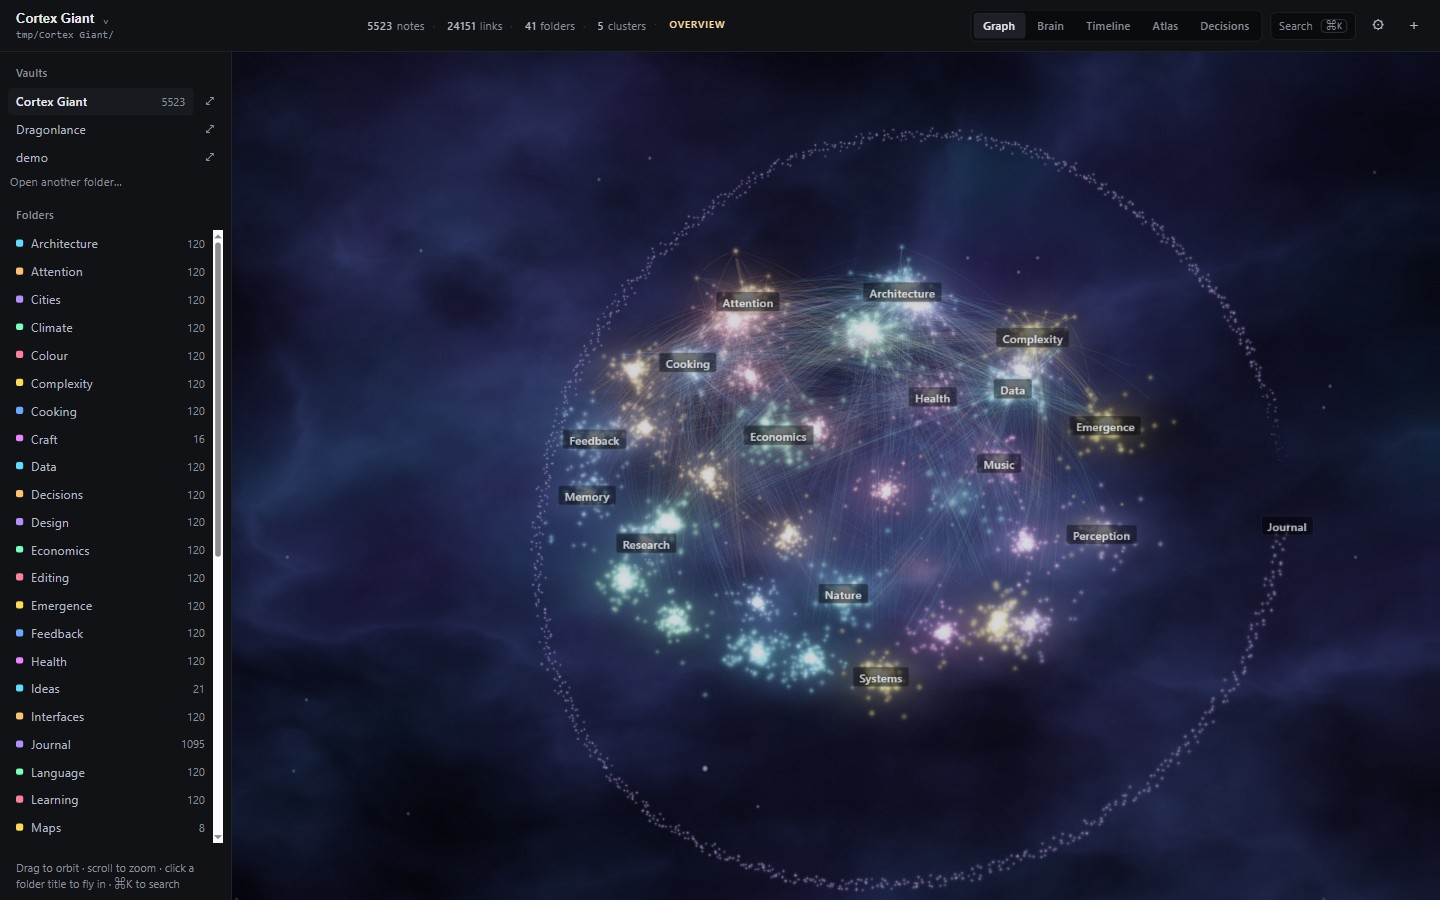
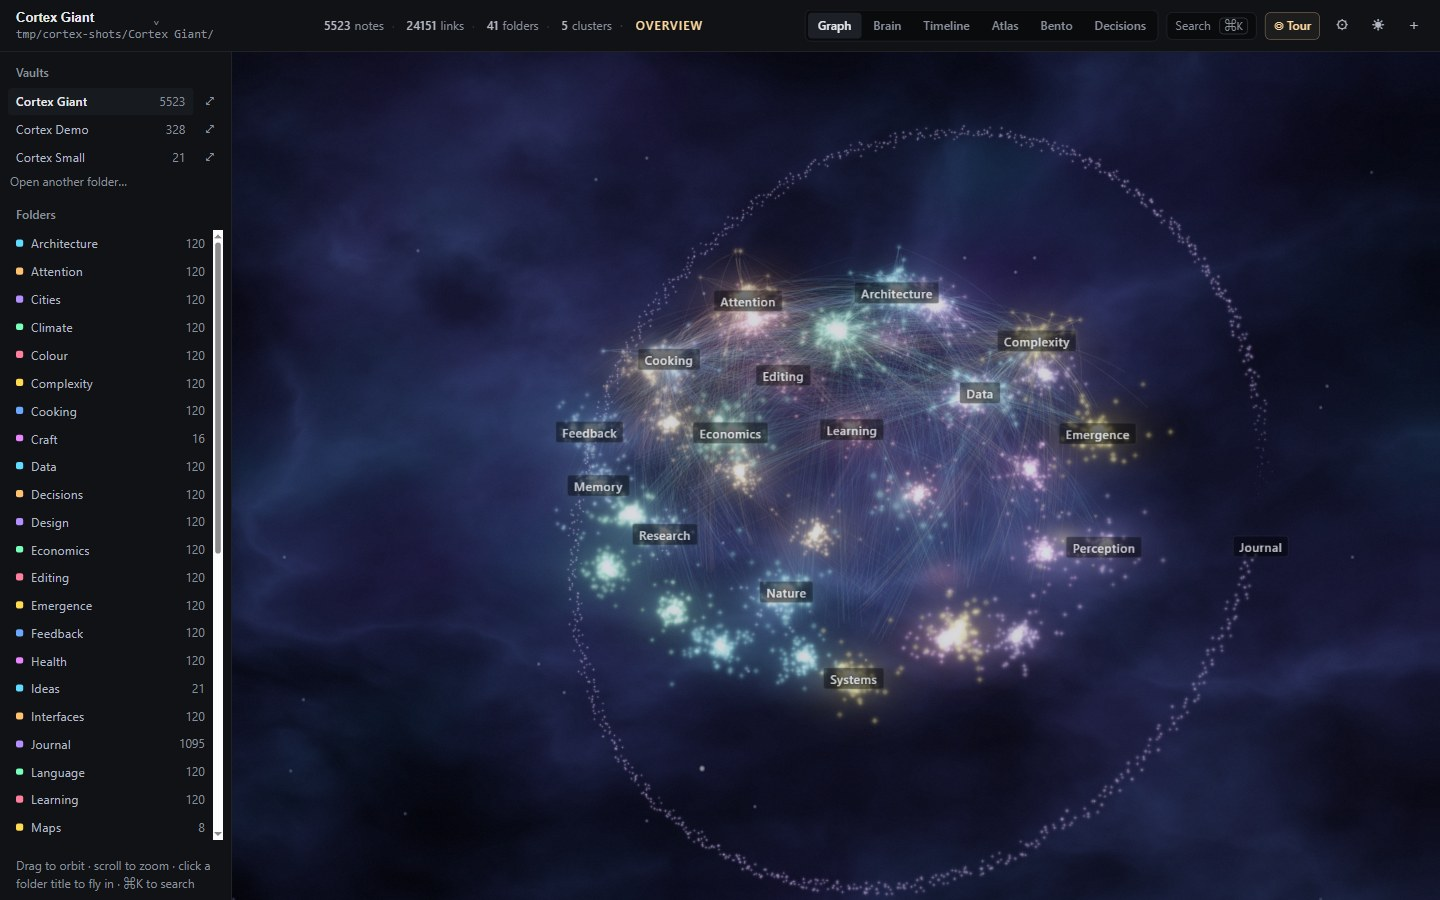
Release Cortex 1.1.1 with tour replay and galaxy screenshots
Remember a completed guided tour and offer a one-click replay from the toolbar.
Refresh the README graph images to the current folder-galaxy layout and bump the
version across the binary and installer.

Generated with Codebuff 🤖

diff --git a/web/js/main.js b/web/js/main.js
@@ -160,6 +160,16 @@ const prefs = {
   },
 };
 
+const TOUR_COMPLETE_KEY = 'cortex.tour.completed';
+
+function syncTourButton() {
+  const complete = prefs.get(TOUR_COMPLETE_KEY, false);
+  const label = complete ? 'Replay the guided tour' : 'Take the guided tour';
+  els.tourButton.textContent = complete ? '↻ Replay' : '◎ Tour';
+  els.tourButton.title = label;
+  els.tourButton.setAttribute('aria-label', label);
+}
+
 function viewForVault(id) {
   return prefs.get(`cortex.view.${id}`, prefs.get('cortex.launchView', 'universe'));
 }
@@ -230,6 +240,7 @@ async function start() {
 }
 
 function wire() {
+  syncTourButton();
   const storedView = prefs.get('cortex.launchView', 'universe');
   const storedRadio = document.querySelector(`input[name="launch-view"][value="${storedView}"]`);
   if (storedRadio) storedRadio.checked = true;
@@ -1684,11 +1695,15 @@ async function startTour() {
   }
 }
 
-async function finishTour({ stay = false } = {}) {
+async function finishTour({ stay = false, completed = false } = {}) {
   const session = tourSession;
   tourSession = null;
   closeCompose();
   closePalette();
+  if (completed) {
+    prefs.set(TOUR_COMPLETE_KEY, true);
+    syncTourButton();
+  }
   if (!session) return;
 
   if (stay) {
@@ -1727,7 +1742,7 @@ async function finishTour({ stay = false } = {}) {
   } else {
     closePanel();
   }
-  ui.toast('Tour complete — your notes are untouched');
+  ui.toast('Tour complete — replay it from the toolbar. Your notes are untouched.');
 }
 
 /* ---------- pointer ---------- */

diff --git a/README.md b/README.md
@@ -1,15 +1,15 @@
 <p align="center">
-  <a href="https://github.com/thijnperd/obsidian-cortex/releases/tag/v1.1.0">
-    <img src="docs/screenshots/v1-decision-trail.jpg" width="100%" alt="Cortex 1.1 showing a decision trail beside the Decisions board">
+  <a href="https://github.com/thijnperd/obsidian-cortex/releases/tag/v1.1.1">
+    <img src="docs/screenshots/v1-decision-trail.jpg" width="100%" alt="Cortex 1.1.1 showing a decision trail beside the Decisions board">
   </a>
 </p>
 
-<h1 align="center">Cortex 1.1 — The Guided Tour</h1>
+<h1 align="center">Cortex 1.1.1 — The Guided Tour</h1>
 
 <p align="center"><strong>Your notes have a shape. Cortex shows you the reason.</strong></p>
 
 <p align="center">
-  <a href="https://github.com/thijnperd/obsidian-cortex/releases/tag/v1.1.0"><img alt="Cortex 1.1" src="https://img.shields.io/badge/version-1.1.0-ffd9a0?style=flat-square&amp;labelColor=0a0b0d"></a>
+  <a href="https://github.com/thijnperd/obsidian-cortex/releases/tag/v1.1.1"><img alt="Cortex 1.1.1" src="https://img.shields.io/badge/version-1.1.1-ffd9a0?style=flat-square&amp;labelColor=0a0b0d"></a>
   <img alt="Local-first" src="https://img.shields.io/badge/local--first-your%20folder-101216?style=flat-square&amp;labelColor=0a0b0d">
   <img alt="MIT licensed" src="https://img.shields.io/badge/license-MIT-ffd9a0?style=flat-square&amp;labelColor=0a0b0d">
   <img alt="Windows, macOS and Linux" src="https://img.shields.io/badge/platform-Windows%20%7C%20macOS%20%7C%20Linux-101216?style=flat-square&amp;labelColor=0a0b0d">
@@ -42,7 +42,8 @@ Press **Tour** in the toolbar. Cortex checks whether your vault has the pieces
 the tour teaches — a research brief, an idea note and a decision trail. If it
 does, the tour runs in place. If not, Cortex opens a generated **Cortex Tour**
 demo and returns you to your own vault when you finish. Your notes are never
-written to or changed.
+written to or changed. Finishing changes the toolbar button to **↻ Replay**,
+remembered in this browser, so the full walkthrough is always one click away.
 
 The fifteen steps cover all six views, collecting evidence, Research brief,
 Refine idea, Decisions and the trail, plus the daily note and the shortcuts that
@@ -94,12 +95,17 @@ individual stars, draws only the strongest 5,000 links, and the atlas turns
 dense folders into light stipple. Hover or select a note for its own label.
 Click a folder title to fly into that galaxy; `All folders` flies back out.
 
+The graph is a sphere of **folder galaxies**: every folder is a local cluster of
+note dots, the strongest links stay nearby, and a large daily journal becomes a
+chronological ring around the vault instead of a blob that swallows the map.
+That is the layout in every screenshot below.
+
 ### Small — 21 notes, 35 links
 
 | | |
 | --- | --- |
 | ![Small vault: graph view](docs/screenshots/small/01-graph.jpg) | ![Small vault: brain view](docs/screenshots/small/02-brain.jpg) |
-| **Graph** — notes are stars, links are light, and the sky is a nebula. | **Brain** — the same graph inside a real cortical surface. |
+| **Graph** — folder galaxies: notes are dots, links are light, and the sky is a nebula. | **Brain** — the same graph inside a real cortical surface. |
 | ![Small vault: timeline view](docs/screenshots/small/03-timeline.jpg) | ![Small vault: atlas view](docs/screenshots/small/04-atlas.jpg) |
 | **Timeline** — the vault replayed as it was written. | **Atlas** — seven folders as countries, notes as places, links as roads. |
 | ![Small vault: bento view](docs/screenshots/small/06-bento.jpg) | ![Small vault: decisions view](docs/screenshots/small/05-decisions.jpg) |
@@ -110,7 +116,7 @@ Click a folder title to fly into that galaxy; `All folders` flies back out.
 | | |
 | --- | --- |
 | ![Medium vault: graph view](docs/screenshots/medium/01-graph.jpg) | ![Medium vault: brain view](docs/screenshots/medium/02-brain.jpg) |
-| **Graph** — the full universe; drag to orbit, scroll to zoom, `f` to reframe. | **Brain** — the same graph inside a real cortical surface, links as fibre tracts. |
+| **Graph** — folder galaxies around the journal’s orbit; drag to orbit, scroll to zoom, `f` to reframe. | **Brain** — the same graph inside a real cortical surface, links as fibre tracts. |
 | ![Medium vault: timeline view](docs/screenshots/medium/03-timeline.jpg) | ![Medium vault: atlas view](docs/screenshots/medium/04-atlas.jpg) |
 | **Timeline** — the vault replayed in the order it was written, with a scrubber. | **Atlas** — countries, towns, roads, and rivers that follow the land. |
 | ![Medium vault: bento view](docs/screenshots/medium/06-bento.jpg) | ![Medium vault: decisions view](docs/screenshots/medium/05-decisions.jpg) |
@@ -453,7 +459,7 @@ any folder the process can read — which is why the default is loopback-only.
 
 ## What 1.1 is
 
-Cortex 1.1 is the local-first version: your folder, plain Markdown, six views,
+Cortex 1.1.1 is the local-first version: your folder, plain Markdown, six views,
 decision trails, the guided tour, the MCP bridge and the Windows installer.
 
 It deliberately does **not** include a hosted sync service, a mobile app,
@@ -465,7 +471,7 @@ proprietary database, no telemetry.
 The UI still has no build step. Every screenshot in this README is a seeded
 vault rendered by the app, not a mock-up.
 
-## Get Cortex 1.1 — The Guided Tour
+## Get Cortex 1.1.1 — The Guided Tour
 
 **One folder. Six views. A reason for every decision.**
 
@@ -481,7 +487,7 @@ https://github.com/thijnperd/obsidian-cortex/releases
 | Linux x86-64 | `cortex-linux-x86_64.tar.gz` |
 
 Tagged releases are fixed; every push to `main` also refreshes the rolling
-`latest` build. The current release is **v1.1.0 — The Guided Tour**. The version
+`latest` build. The current release is **v1.1.1 — The Guided Tour**. The version
 appears in `cortex --version`, in **Vault settings → About**, and on
 `/api/about`. `SHA256SUMS.txt` is attached to every release.
 
@@ -570,8 +576,8 @@ publishes the static export to GitHub Pages.
 ## License
 
 Cortex is MIT licensed. See [LICENSE](LICENSE). Security reports follow
-[SECURITY.md](SECURITY.md), and the v1.1.0 release notes are drafted in
-[docs/releases/v1.1.0.md](docs/releases/v1.1.0.md).
+[SECURITY.md](SECURITY.md), and the v1.1.1 release notes are drafted in
+[docs/releases/v1.1.1.md](docs/releases/v1.1.1.md).
 
 ## Credits
 

diff --git a/docs/releases/v1.1.1.md b/docs/releases/v1.1.1.md
@@ -1,0 +1,46 @@
+# Cortex 1.1.1 — The Guided Tour
+
+**Replay the tour. See the graph as it is now.**
+
+![Cortex graph as folder galaxies with clusters and dots](https://raw.githubusercontent.com/thijnperd/obsidian-cortex/v1.1.1/docs/screenshots/medium/01-graph.jpg)
+
+Cortex 1.1.1 is a patch release for the guided tour and the README's graph
+views. The renderer is unchanged: it uses the folder-galaxy layout, with local
+clusters of note dots and a chronological ring for a large journal. The README
+still showed graph screenshots captured before that layout landed; the
+screenshots now come from this build at all three demo sizes.
+
+## What changed
+
+- **Replay the tour.** After the final step, Cortex remembers that the tour was
+  finished and changes the toolbar button from **Tour** to **Replay**. The
+  marker lives in this browser; closing early does not set it.
+- **Current graph views.** The small, medium and giant graph screenshots in the
+  README now show the same app the binaries ship: folder galaxies, local
+  clusters, note dots, and the journal ring.
+- **Clearer documentation.** The README now names the folder-galaxy layout and
+  calls out that the images are seeded vaults rather than mock-ups.
+
+## Local-first, still
+
+- Your folder, your files, your frontmatter.
+- No account, cloud, telemetry, plugin runtime or built-in AI.
+- Windows installer, portable Windows build, macOS Apple-silicon archive and
+  Linux x86-64 archive, plus `SHA256SUMS.txt`.
+
+## Install
+
+Download the build for your platform from the assets below. Windows users can
+run the per-user installer with no admin rights. The portable Windows and Unix
+archives contain a `cortex` executable and a short README.
+
+```bash
+cortex                 # open the last vault, or choose a folder
+cortex seed-demo demo  # a 328-note vault to try the loop
+cortex serve ~/Notes   # open a folder directly
+```
+
+Read the [guided tour section](https://github.com/thijnperd/obsidian-cortex#new-here-take-the-tour)
+and the [native research setup](https://github.com/thijnperd/obsidian-cortex#native-setup-research-and-decisions).
+
+**Full changelog:** [v1.1.0...v1.1.1](https://github.com/thijnperd/obsidian-cortex/compare/v1.1.0...v1.1.1)

diff --git a/CHANGELOG.md b/CHANGELOG.md
@@ -1,5 +1,26 @@
 # Changelog
 
+## 1.1.1 — The Guided Tour
+
+### Guided tour
+
+- A finished tour is remembered in this browser. The toolbar button changes from
+  **Tour** to **Replay**, so the fifteen-step walkthrough can be started again
+  in one click.
+- Closing the tour early does not mark it complete.
+
+### Documentation
+
+- The README graph screenshots now show the current folder-galaxy layout: local
+  clusters of note dots on a sphere, plus a chronological ring for a large
+  journal. The renderer already used this layout; the images were stale.
+- The README now describes that layout directly instead of leaving readers to
+  infer it from the old barrel-and-rings screenshots.
+
+### Release
+
+- Version 1.1.1 across the binary, installer and About panel.
+
 ## 1.1.0 — The Guided Tour
 
 ### Guided tour
